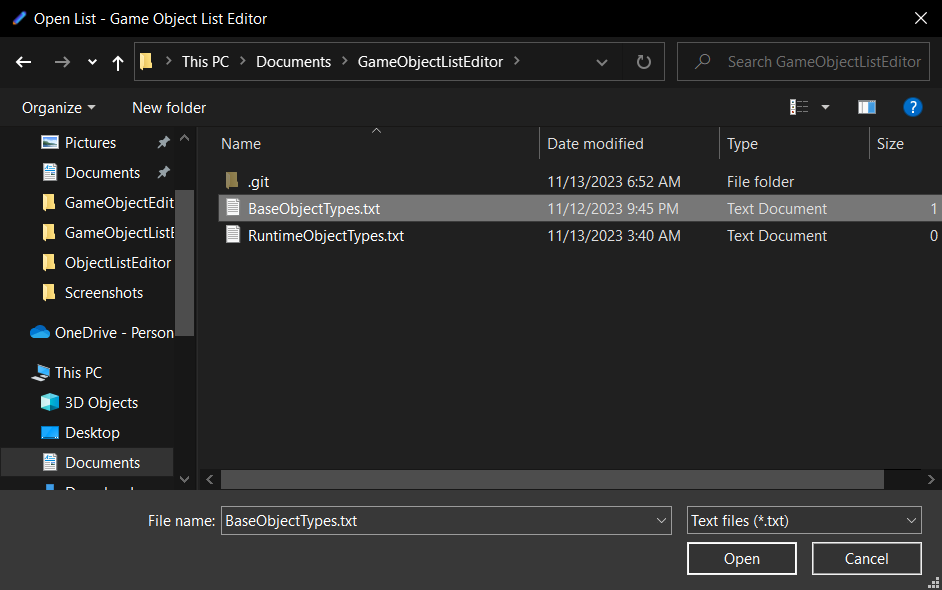
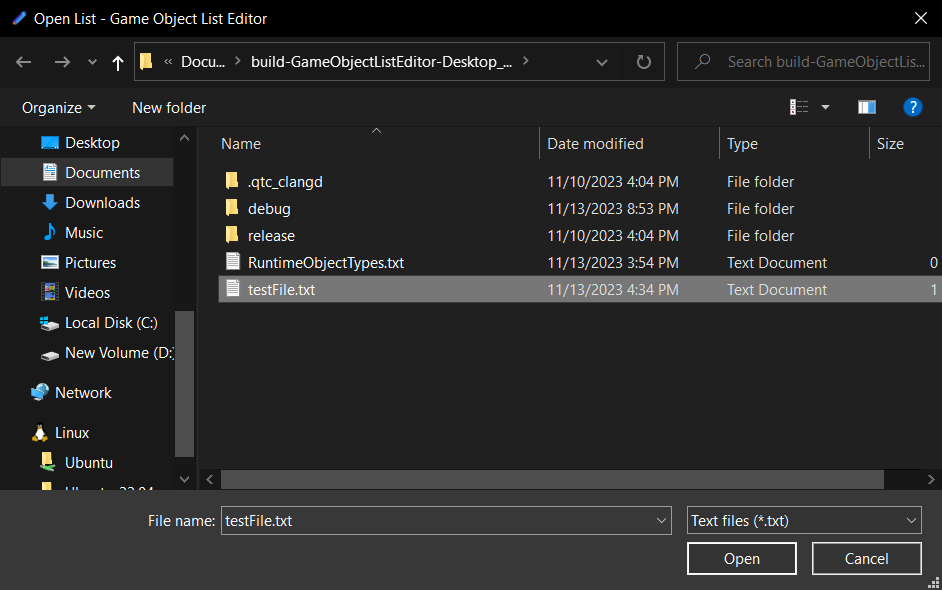
First draft of the documentation
Spelling errors still need to be found and corrected.

diff --git a/mainwindow.h b/mainwindow.h
@@ -10,6 +10,7 @@
 #include <QPushButton>
 #include <QVBoxLayout>
 #include <QLayout>
+#include <QStack>
 
 QT_BEGIN_NAMESPACE
 namespace Ui { class MainWindow; }
@@ -77,6 +78,9 @@ private:
     QString newFilePath;
 
     QUrl openFileToEdit;
+
+    QStack<GameObject*> doStack;
+    QStack<GameObject*> undoStack;
 };
 
 ///////////////////////////////////////////////////////////////////////////////
@@ -227,7 +231,7 @@ public:
         createButton_(new QPushButton("Create"))
     {
         windowFrame_->setWindowTitle("New List - Game Object List Editor");
-        windowFrame_->setFixedSize(400, 100);
+        windowFrame_->setFixedSize(355, 100);
         windowFrame_->setLayout(layout_);
         windowFrame_->layout()->addWidget(label_);
         windowFrame_->layout()->addWidget(lineEdit_);
@@ -244,6 +248,8 @@ public:
 
     void show() {
         lineEdit_->clear();
+        lineEdit_->setText(".txt");
+        lineEdit_->setCursorPosition(0);
         windowFrame_->show();
     }
 

diff --git a/mainwindow.cpp b/mainwindow.cpp
@@ -185,7 +185,7 @@ void MainWindow::createFileList() {
     QString fileName = creatorForm->getFileName();
     creatorForm->hide();
 
-    QUrl url = QFileDialog::getExistingDirectoryUrl();
+    QUrl url = QFileDialog::getExistingDirectoryUrl(this, "Create List - Game Object List Editor");
     newFilePath = QDir::cleanPath(url.toString() + "\\" + fileName);
     openFileToEdit = QDir::cleanPath(url.toString() + "\\" + fileName);
 

diff --git a/README.md b/README.md
@@ -1,12 +1,69 @@
 # GameObjectListEditor
- "Create, read, write, parse, undo and redo your list of game objects"
+GameObjectListEditor (or just ListEditor) is a little document editing application which allows you to create list of objects: choose their names, properties and description.
+
+## First Look
+
+As you can see, application sepparactes into 2 main parts: Object Types Area and Edit Area.
+
+Object Types Area sugests you base types to fill your documents. They can't be deleted, cause they placed in resource file of project. Nevertheless, you can add your own types for current session.
+Edit Area allows you to create new object types and add new data into your document.
 
 ![alt text](https://github.com/Den-One/GameObjectListEditor/blob/main/documents/first_look.png)
 
+## Create Type
+
+Let's add a new object into our type list. We just click on 'Create type' button to see in the Edit Area a menu of type creator.
+
+![alt text](https://github.com/Den-One/GameObjectListEditor/blob/main/documents/push-create_type.png)
+
+Let's fill in the textEdits and textAreas. Object and property name should be a single world or a group with no spaces. Otherwise the application will unite them.
+If you wanna add less then 2 properties, simply remain the areas unforfilled. Object name LineEdit should have text or object types won't be created.
+Just push "Save" button to add new object into Type List.
+
 ![alt text](https://github.com/Den-One/GameObjectListEditor/blob/main/documents/create_type.png)
-![alt text](https://github.com/Den-One/GameObjectListEditor/blob/main/documents/enterFileName.png)
-![alt text](https://github.com/Den-One/GameObjectListEditor/blob/main/documents/menubar-new_list.png)
-![alt text](https://github.com/Den-One/GameObjectListEditor/blob/main/documents/choose_folder.png)
+
+New object types saves sepparatly out of base object types and will be removed when application will be cloused.
+
+## Change Existing List
+
+So let's apply these changes to our pre-created list. Choose 'Open List...' option from menubar on the top.
+
 ![alt text](https://github.com/Den-One/GameObjectListEditor/blob/main/documents/menubar-open_list.png)
+
+In opening dialog window it's already setted to recognise only .txt files. Choose the testFile.txt to open it.
+
 ![alt text](https://github.com/Den-One/GameObjectListEditor/blob/main/documents/choose_file.png)
-![alt text](https://github.com/Den-One/GameObjectListEditor/blob/main/documents/showObjectList.png)
+
+If we look into out testFile.txt, it has a lot of raw data. But don't worry, the application parses all the information before displaying it.
+
+![alt text](https://github.com/Den-One/GameObjectListEditor/blob/main/documents/raw-dataFile.png)
+
+Now we can add out object into list. Object List consists of buttons so just click on one. It'll compare its title with Parsed data to choose the right properties for new item in the Edit Area.
+
+![alt text](https://github.com/Den-One/GameObjectListEditor/blob/main/documents/add-object_type.png)
+
+List Editor allows you to add pre-created types into list too, so let's add a couple.
+
+![alt text](https://github.com/Den-One/GameObjectListEditor/blob/main/documents/form-list.png)
+
+Our list looks finished. Now it's time to save our changes. Just click on Save file option.
+
+![alt text](https://github.com/Den-One/GameObjectListEditor/blob/main/documents/munebar-saveList.png)
+
+## Create New List
+
+To create a new list, choose "New List..." in the menubar.
+
+![alt text](https://github.com/Den-One/GameObjectListEditor/blob/main/documents/munebar-new_list.png)
+
+It opens a small window to type the name. It shouldn't contan spaces. It's already suggests you .txt extenshion.
+
+![alt text](https://github.com/Den-One/GameObjectListEditor/blob/main/documents/enterFileName.png)
+
+After then you need to choose the directory to locate your new file.
+
+![alt text](https://github.com/Den-One/GameObjectListEditor/blob/main/documents/choose_folder.png)
+
+## Credits
+
+Thanks to Lesta Studio for abbility to apply my knowledge in C++ via this test task. It was so fun codying that. I would like to believe that the sleepless nights were not in vain.
